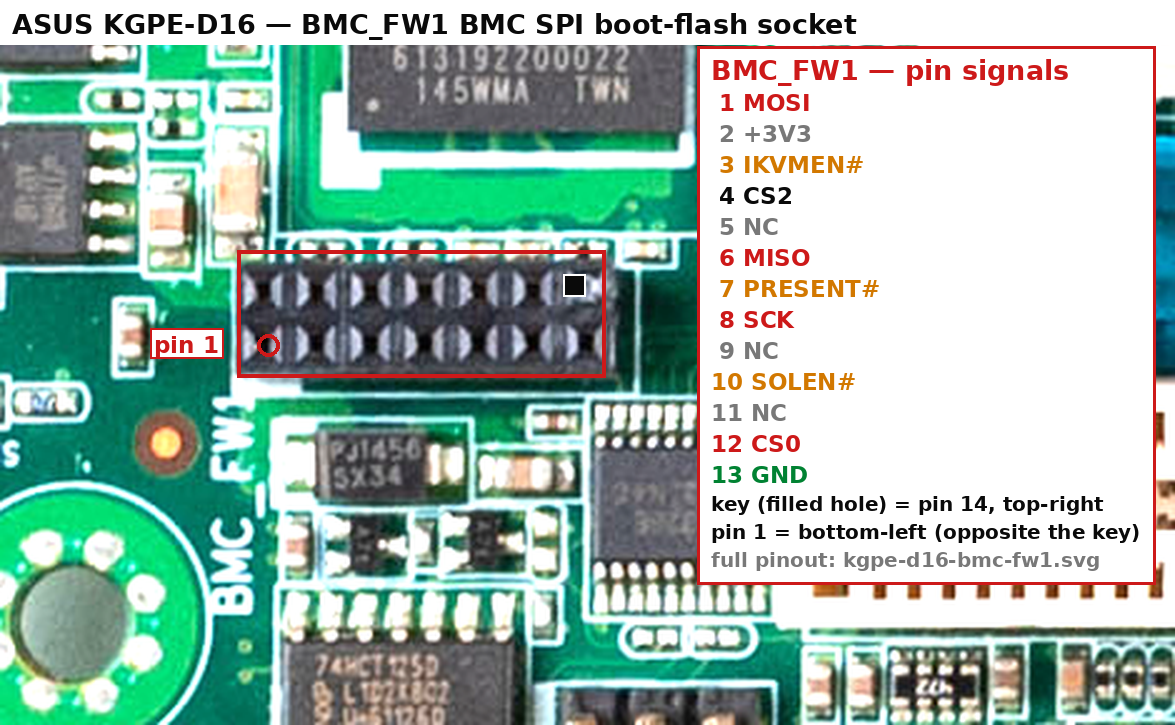
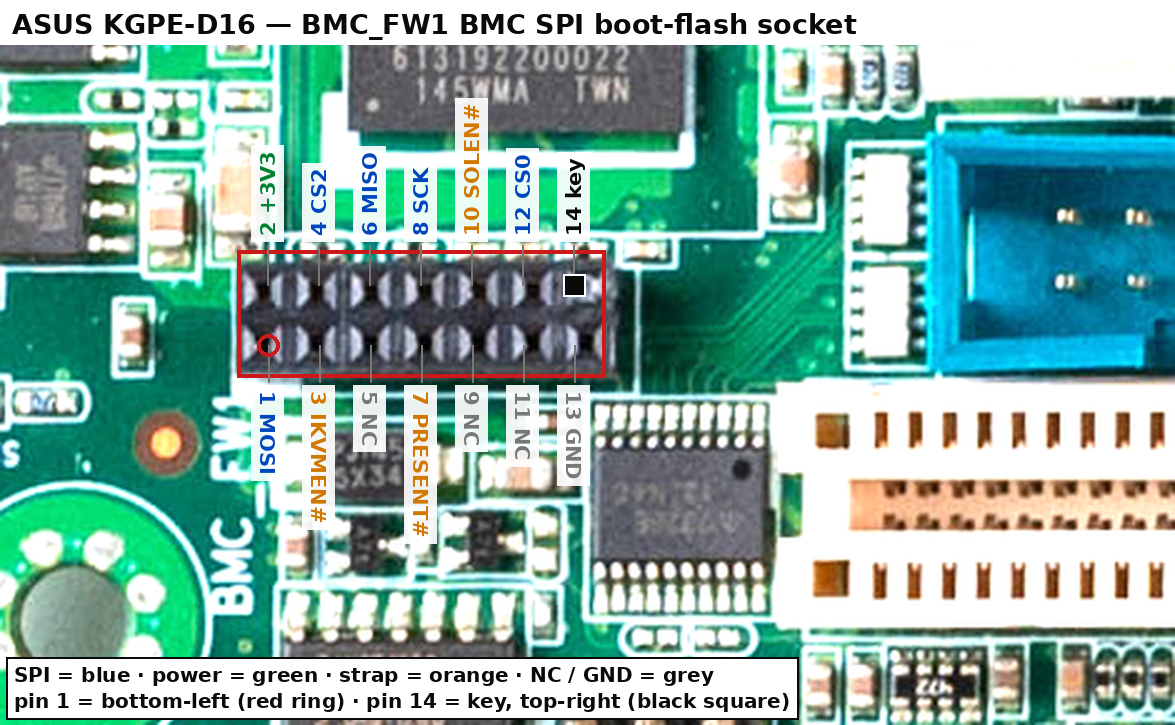
asus: label each BMC_FW1 pin directly on the board diagram
Replace the off-to-the-side signal panel with per-pin labels drawn on the
connector itself: rotated, colour-coded labels above each top/even pin
(2 +3V3, 4 CS2, 6 MISO, 8 SCK, 10 SOLEN#, 12 CS0, 14 key) and below each
bottom/odd pin (1 MOSI, 3 IKVMEN#, 5 NC, 7 PRESENT#, 9 NC, 11 NC, 13 GND),
each with a leader line to its pin. Pin 1 keeps a red ring, pin 14 the key
black square. A two-line footer carries the colour key + orientation.

diff --git a/asus-kgpe-d16-firmware/diagrams/make-kgpe-bmc-fw1-board.py b/asus-kgpe-d16-firmware/diagrams/make-kgpe-bmc-fw1-board.py
@@ -7,7 +7,8 @@
 Uses the high-resolution KGPE-D16 top photo from theretroweb.com. Board is kept
 in its natural (standard) orientation to match the ASUS manual and the pinout
 SVG: BMC_FW1 is a 2x7 socket with **pin 1 at the bottom-left** and **pin 14
-keyed (top-right)**. Signals are in kgpe-d16-bmc-fw1-pinout.svg.
+keyed (top-right)**. Every pin is labelled directly on the connector; the full
+schematic pinout is in schematic-wiring/diagrams/kgpe-d16-bmc-fw1.svg.
 
 BMC_FW1 pixel coords (in the source photo) were read off zoomed crops.
 
@@ -64,53 +65,56 @@ hx0, hy0 = src2px(345, 3170)
 hx1, hy1 = src2px(492, 3221)
 d.rectangle((hx0, hy0, hx1, hy1), outline=RED, width=4)
 
-# 7 columns, 2 rows: pin 1 bottom-left, key (pin 14) top-right
+# 7 columns, 2 rows: odd pins bottom row, even pins top row; pin 14 = key top-right
 col_x = [src2px(347 + (c + 0.5) * (490 - 347) / 7, 0)[0] for c in range(7)]
 y_top = src2px(0, 3184)[1]
 y_bot = src2px(0, 3208)[1]
 
-# pin 1 marker (bottom-left) + key marker (top-right = pin 14)
-p1x, p1y = col_x[0], y_bot
-kx, ky = col_x[6], y_top
-d.ellipse((p1x - 11, p1y - 11, p1x + 11, p1y + 11), outline=RED, width=4)
-d.rectangle((kx - 11, ky - 11, kx + 11, ky + 11), fill=BLACK, outline=WHITE, width=2)
+# pin -> (signal, colour): SPI blue, power green, strap orange, NC/GND grey, key black
+sig = {1: ("MOSI", BLUE), 2: ("+3V3", GREEN), 3: ("IKVMEN#", ORANGE),
+       4: ("CS2", BLUE), 5: ("NC", GREY), 6: ("MISO", BLUE), 7: ("PRESENT#", ORANGE),
+       8: ("SCK", BLUE), 9: ("NC", GREY), 10: ("SOLEN#", ORANGE), 11: ("NC", GREY),
+       12: ("CS0", BLUE), 13: ("GND", GREY), 14: ("key", BLACK)}
+F_L = font(21)
 
 
-def tag(x, y, txt, col, f=F_B, anchor="lt"):
-    w = tw(txt, f)
-    tx = x - w - 6 if anchor == "rt" else x
-    d.rectangle((tx - 4, y - 3, tx + w + 4, y + f.size + 4), fill=WHITE, outline=col, width=2)
-    d.text((tx, y), txt, fill=col, font=f)
+def vlabel(cx, edge_y, text, color, above):
+    """A rotated, white-backed label centred on column `cx`, pin number toward
+    the connector; placed above (`above=True`) or below the header edge."""
+    pad = 6
+    w = tw(text, F_L)
+    timg = Image.new("RGBA", (w + 2 * pad, F_L.size + 2 * pad), (255, 255, 255, 235))
+    ImageDraw.Draw(timg).text((pad, pad - 2), text, fill=color, font=F_L)
+    rot = timg.rotate(90 if above else -90, expand=True)
+    x = int(cx - rot.width / 2)
+    y = int(edge_y - rot.height) if above else int(edge_y)
+    base.paste(rot, (x, y), rot)
 
 
-tag(hx0 - 12, p1y - 14, "pin 1", RED, anchor="rt")
-# the key (top-right) is shown by the black square marker; the legend labels it
-# (no floating tag here — it would collide with the signal panel)
+# label every pin directly on the connector
+for c in range(7):
+    odd, even = 2 * c + 1, 2 * c + 2                 # bottom row / top row
+    d.line((col_x[c], y_bot, col_x[c], hy1 + 5), fill=GREY, width=2)
+    vlabel(col_x[c], hy1 + 8, f"{odd} {sig[odd][0]}", sig[odd][1], above=False)
+    d.line((col_x[c], y_top, col_x[c], hy0 - 5), fill=GREY, width=2)
+    vlabel(col_x[c], hy0 - 8, f"{even} {sig[even][0]}", sig[even][1], above=True)
 
-# ---- signal legend (right side), rows matching the SVG numbering ----
-# bottom row L->R = pins 1..7 ; top row L->R = key,13,12,11,10,9,8
-sig = {1: ("MOSI", RED), 2: ("+3V3", GREY), 3: ("IKVMEN#", ORANGE),
-       4: ("CS2", BLACK), 5: ("NC", GREY), 6: ("MISO", RED), 7: ("PRESENT#", ORANGE),
-       8: ("SCK", RED), 9: ("NC", GREY), 10: ("SOLEN#", ORANGE), 11: ("NC", GREY),
-       12: ("CS0", RED), 13: ("GND", GREEN)}
-lines = [("BMC_FW1 — pin signals", RED, F_H)]
-lines += [(f"{n:>2} {sig[n][0]}", sig[n][1], F_B) for n in range(1, 14)]
-lines.append(("key (filled hole) = pin 14, top-right", BLACK, F_S))
-lines.append(("pin 1 = bottom-left (opposite the key)", BLACK, F_S))
-lines.append(("full pinout: kgpe-d16-bmc-fw1.svg", GREY, F_S))
-lw = max(tw(t, f) for t, _, f in lines)
-lx, ly = base.width - lw - 34, 54
-d.rectangle((lx - 14, ly - 8, lx + lw + 14, ly + sum(f.size + 8 for _, _, f in lines) + 8),
-            fill=WHITE, outline=RED, width=3)
-cy = ly
-for t, c, f in lines:
-    d.text((lx, cy), t, fill=c, font=f)
-    cy += f.size + 8
+# pin 1 (red ring, bottom-left) + key / pin 14 (black square, top-right)
+d.ellipse((col_x[0] - 11, y_bot - 11, col_x[0] + 11, y_bot + 11), outline=RED, width=4)
+d.rectangle((col_x[6] - 11, y_top - 11, col_x[6] + 11, y_top + 11),
+            fill=BLACK, outline=WHITE, width=2)
 
-# ---- title strip ----
+# ---- title strip + one-line key ----
 d.rectangle((0, 0, base.width, 44), fill=WHITE)
 d.text((12, 8), "ASUS KGPE-D16 — BMC_FW1 BMC SPI boot-flash socket",
        fill=BLACK, font=F_H)
+notes = ["SPI = blue · power = green · strap = orange · NC / GND = grey",
+         "pin 1 = bottom-left (red ring) · pin 14 = key, top-right (black square)"]
+nw = max(tw(n, F_S) for n in notes)
+d.rectangle((6, base.height - 68, 22 + nw, base.height - 6),
+            fill=WHITE, outline=BLACK, width=2)
+for i, n in enumerate(notes):
+    d.text((14, base.height - 62 + i * (F_S.size + 6)), n, fill=BLACK, font=F_S)
 
 base.save(OUT)
 print("wrote", OUT, base.size)
